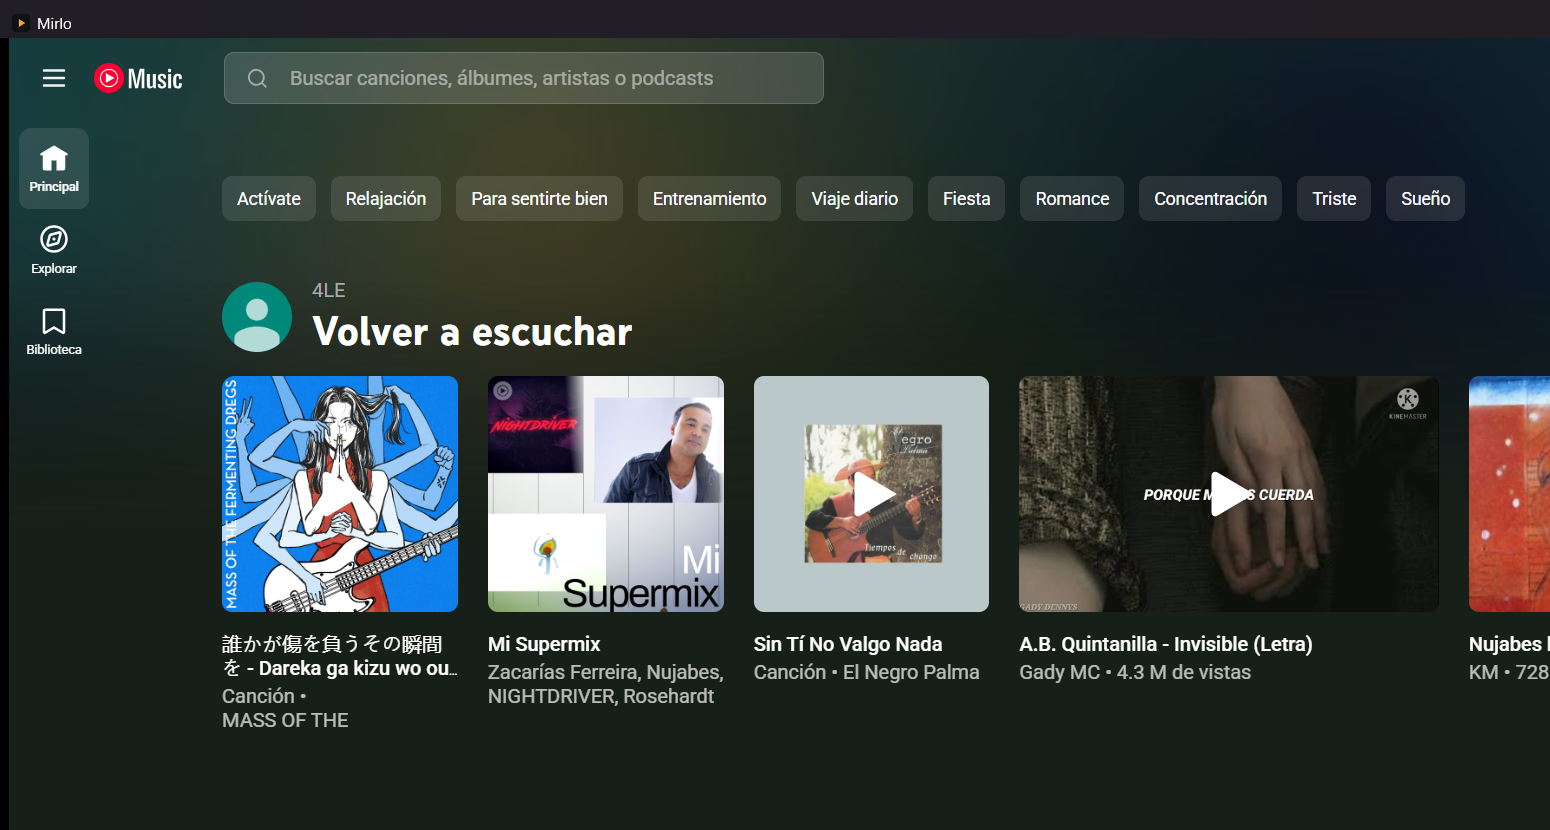
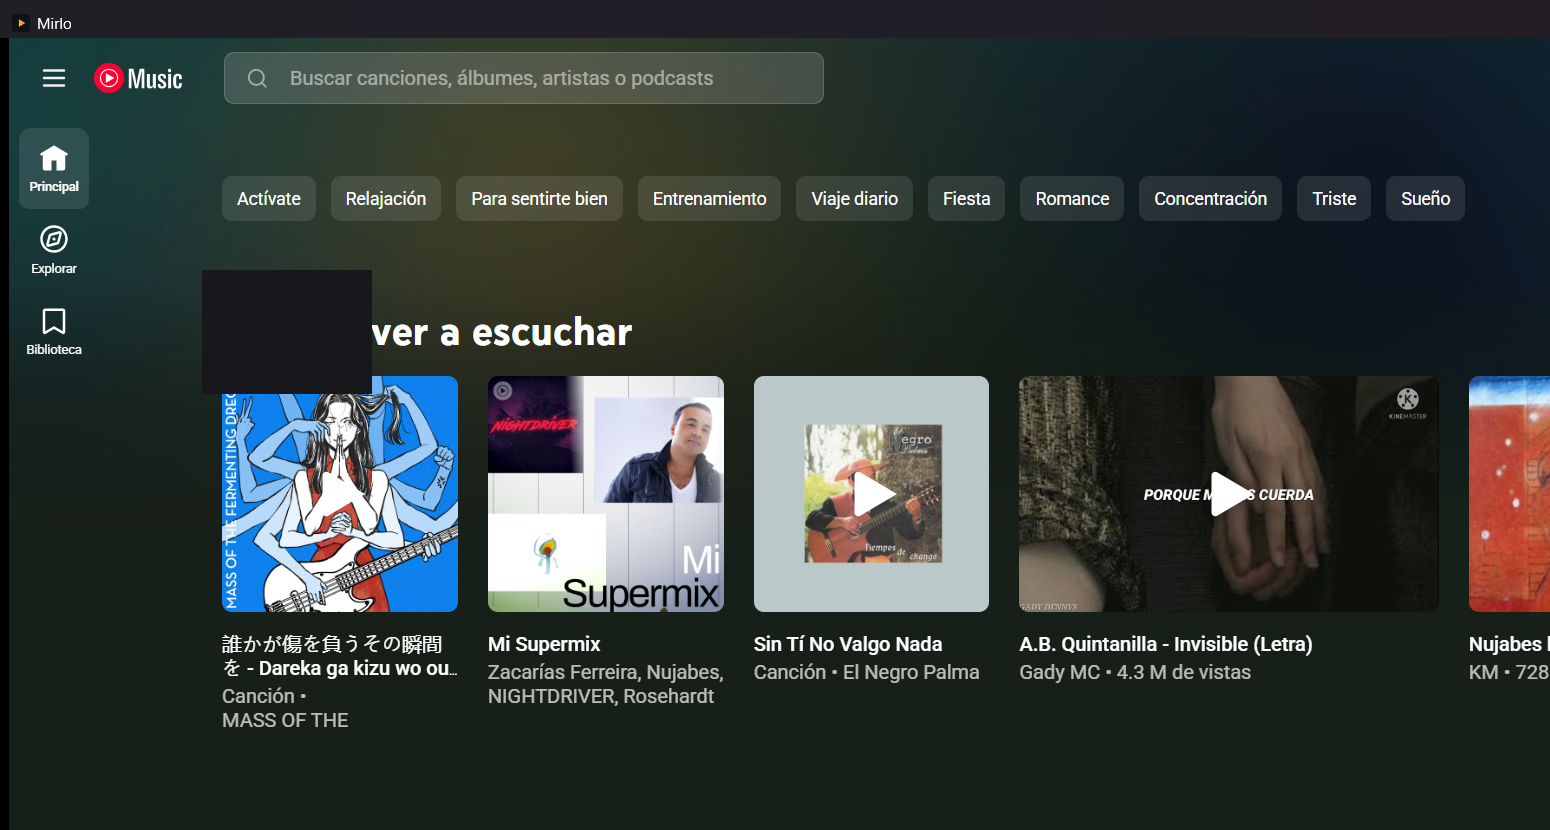
chore(release): prepare v0.1.0 changelog and complete screenshot privacy pass

Changed region(s): [[0.1239, 0.3012, 0.2477, 0.4217], [0.1239, 0.4518, 0.2477, 0.4819]]

diff --git a/AGENTS.md b/AGENTS.md
@@ -383,9 +383,11 @@ with pear-desktop's plugin model, at a fraction of its memory/CPU footprint.
   - Docs: `docs/user/{install,faq,terms}.md`, `docs/release.md` (mantainer
     checklist: secrets, version bump, tag, verify draft, publish; key
     rotation caveat: old installs only trust the old pubkey).
-  - `docs/research/images/phase-a-idle.png` redacted (avatar + "4LE" label
-    painted over) in place; note added in measurements.md. **No other
-    screenshot should be published without a privacy pass.**
+   - `docs/research/images/phase-a-idle.png` redacted (avatar + "4LE" label
+     painted over) in place; note added in measurements.md. Privacy pass
+     **completed 2026-10-17**: `phase-b-batch1.png` (account label + avatar)
+     and `phase-b-lyrics.png` (profile avatar) redacted; the two settings
+     screenshots verified clean (no account UI).
   - Owner actions remaining before the first public release: make repo
     public, add the signing key to GitHub Actions secrets, tag `v0.1.0`,
     verify the draft, publish (then re-verify auto-update from 0.1.0→next).

diff --git a/docs/release.md b/docs/release.md
@@ -105,5 +105,7 @@ The workflow builds the Windows bundles and creates a **draft** release with:
 - The private key is a release credential: it lives outside the repository
   (`%USERPROFILE%\.tauri\`) and in GitHub Actions secrets only.
 - `docs/research/images/phase-a-idle.png` was redacted (avatar and account
-  label) before going public; review any new screenshot for personal data
-  before attaching it to docs or releases.
+  label) before going public. 2026-10-17: `phase-b-batch1.png` (account
+  label + avatar) and `phase-b-lyrics.png` (profile avatar) redacted; all
+  five research screenshots passed the privacy pass. Review any new
+  screenshot for personal data before attaching it to docs or releases.

diff --git a/CHANGELOG.md b/CHANGELOG.md
@@ -7,6 +7,8 @@ and this project adheres to [Semantic Versioning](https://semver.org/spec/v2.0.0
 
 ## [Unreleased]
 
+## [0.1.0] - 2026-10-17
+
 ### Added
 
 - Repository foundation: README, LICENSE (MIT), contributing guide, code of
